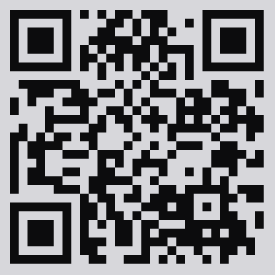
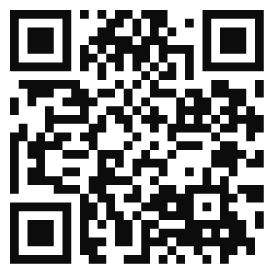
updates to donation (#18)
* updates to donation

* add tax disclaimer

* add direct link to venmo

* Create donate.md

include embed script for Action Network donation page

* add donate page to nav

* change donation link

include /donate/ page
remove venmo qr code

* fix donate url

* change donate to relative path

* add blank lines

* replace div injection with iframe

* add better embed code

diff --git a/_pages/fite.md b/_pages/fite.md
@@ -18,9 +18,7 @@ FITE is always looking for volunteers to cook, serve, or donate materials. [Foll
 
 You can donate to FITE in person by coming to our Saturday food distro, or online donating to Baton Rouge DSA and including a message that you would like your donation to be used for FITE.
 
-You can donate to Baton Rouge DSA on [Venmo](https://venmo.com/u/BRDSA).
+You can set up recurring [donations to Baton Rouge DSA](/donate/) or make a one-time donation via [Venmo](https://venmo.com/u/BRDSA). Donations to FITE and Baton Rouge DSA are _not_ tax deductible. 
 
-<div style="display:flex; flex-direction: row-reverse;">
-    <img src="/assets/images/qrcode_BRDSAvenmo.png">
-</div>
+
 

diff --git a/_pages/donate.md b/_pages/donate.md
@@ -1,0 +1,8 @@
+---
+layout: page
+title: "Donate"
+permalink: /donate/
+---
+
+<script src='https://actionnetwork.org/widgets/v5/fundraising/donate-to-baton-rouge-democratic-socialists-of-america?format=js&source=widget&css=whitelabel&style=full'></script><div id='can-fundraising-area-donate-to-baton-rouge-democratic-socialists-of-america' style='width: 100%'><!-- this div is the target for our HTML insertion --></div>
+
